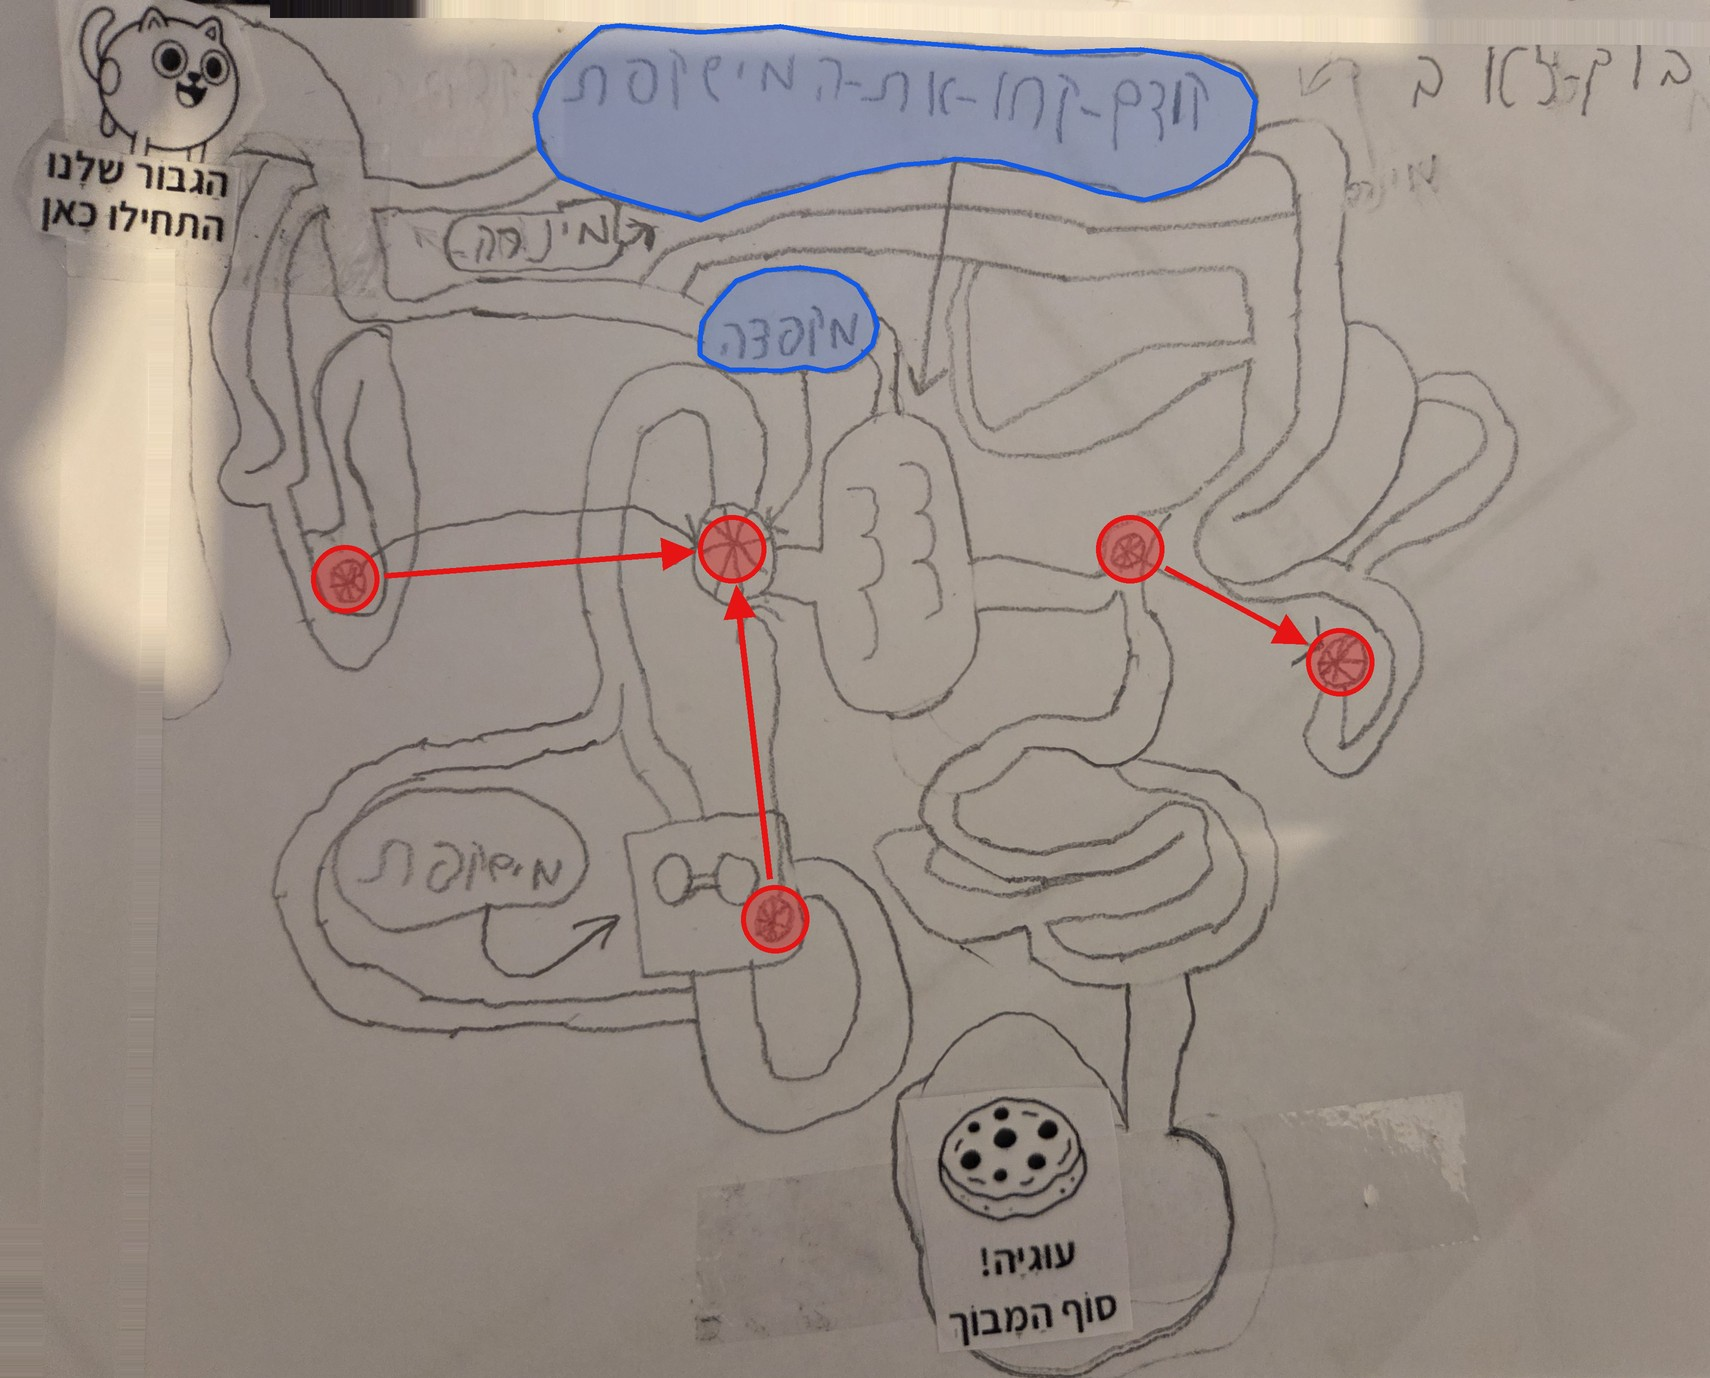
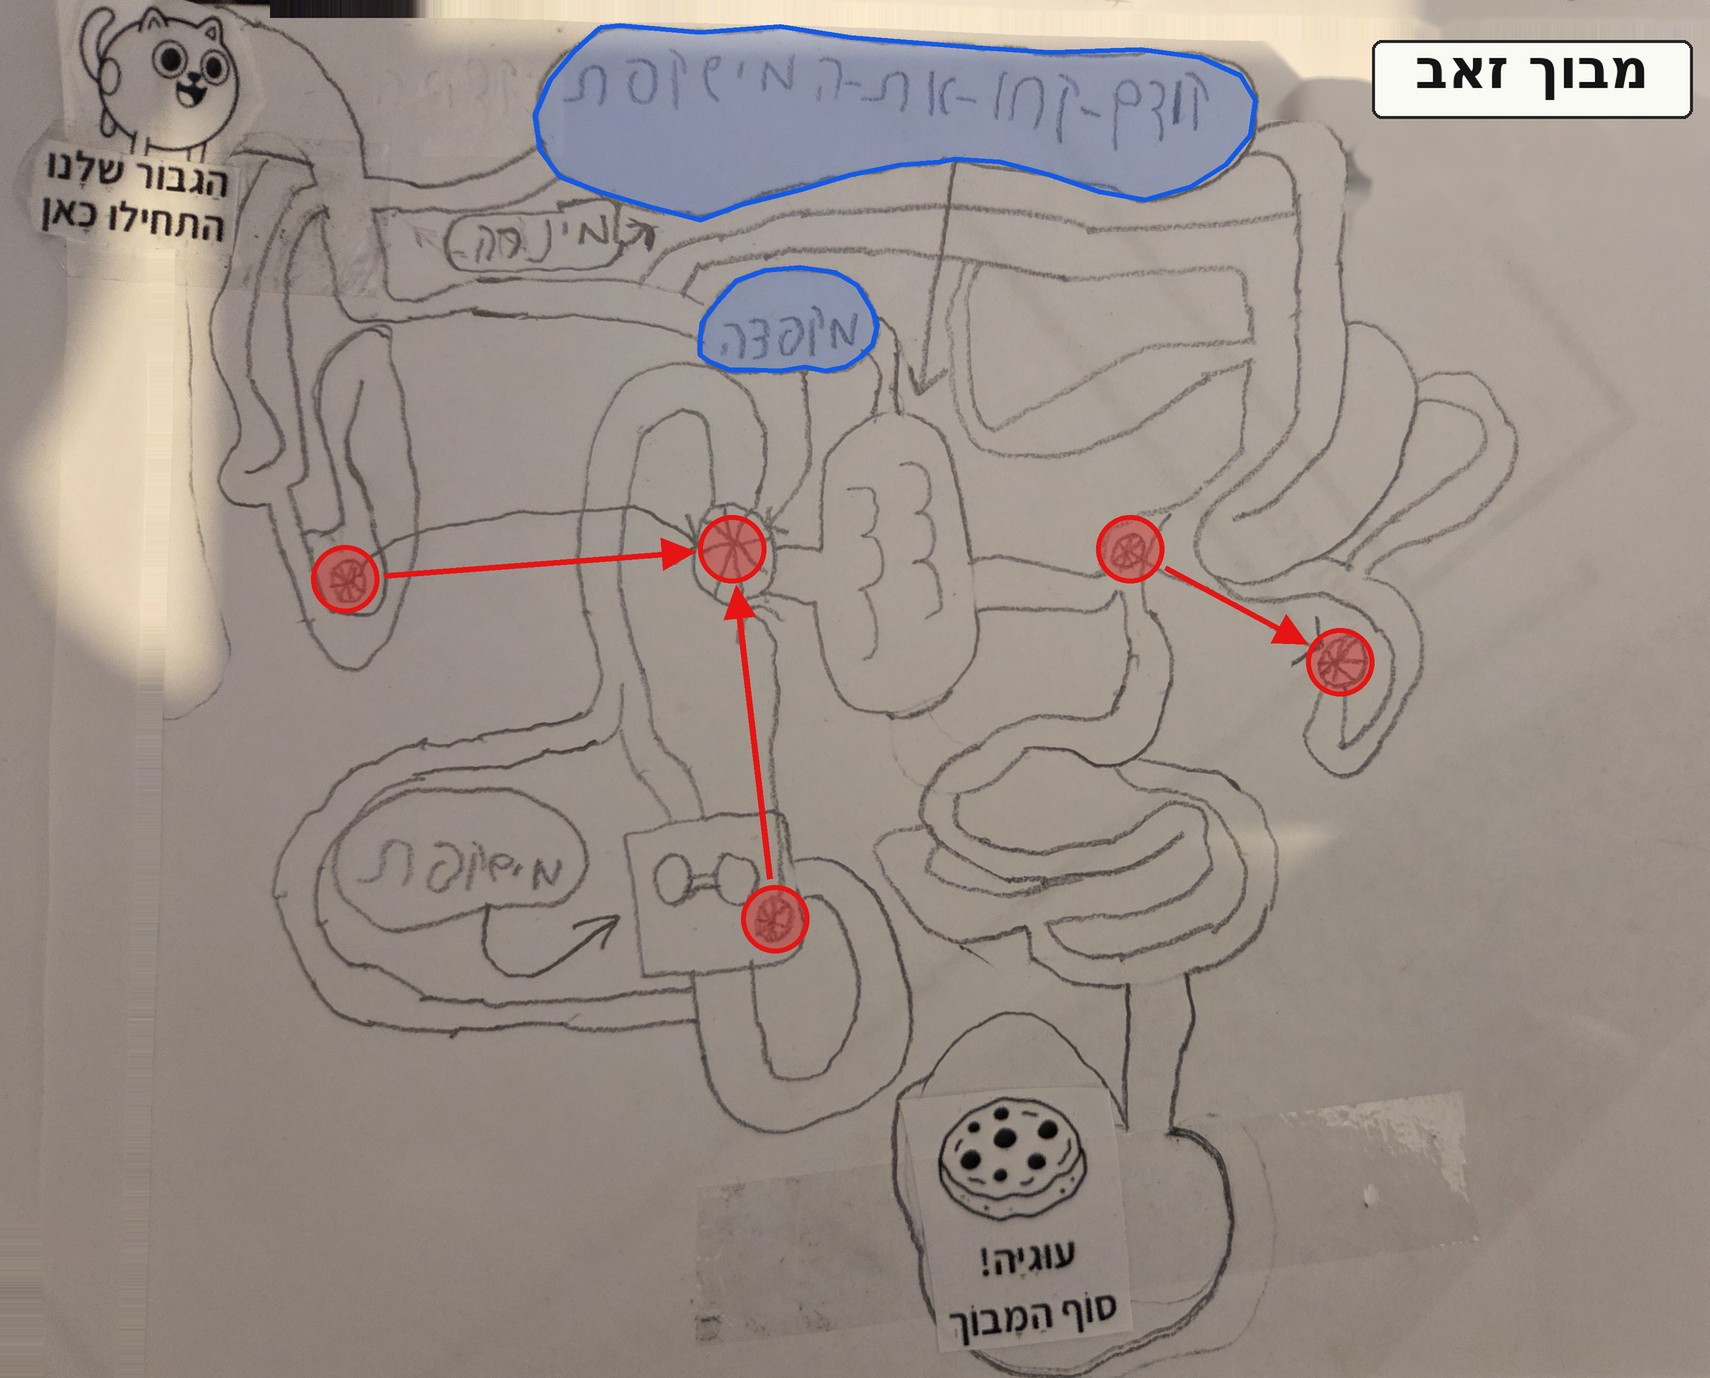
Underground tunnels, wall fixes/bridges, B1 bottom closed, title text box

Changed region(s): [[0.7439, 0.0312, 0.9918, 0.0936], [0.7749, 0.1248, 0.8058, 0.156]]

diff --git a/index.html b/index.html
@@ -1,4 +1,4 @@
 <!doctype html><meta charset="utf-8"><meta name="viewport" content="width=device-width,initial-scale=1">
 <title>Maze</title><body style="margin:0;background:#222;color:#eee;font-family:sans-serif">
-<p style="padding:8px"><a style="color:#8cf" href="maze.jpg">annotations</a> · <a style="color:#8cf" href="maze_walls.jpg">corridor walls (blue) + openings (green)</a> · <a style="color:#8cf" href="annotations.json">annotations.json</a></p>
+<p style="padding:8px"><a style="color:#8cf" href="maze.jpg">annotations</a> · <a style="color:#8cf" href="maze_walls.jpg">corridor walls (blue), room entrances (green), underground tunnels (dotted orange)</a> · <a style="color:#8cf" href="annotations.json">annotations.json</a></p>
 <img src="maze_walls.jpg" style="max-width:100%;display:block;margin:auto">

diff --git a/tools/walls/final.py b/tools/walls/final.py
@@ -1,0 +1,53 @@
+import json, cv2, numpy as np, math
+from PIL import Image, ImageDraw, ImageFont
+A=json.load(open('annotations.json'))
+W=json.load(open('walls_raw.json')); O=json.load(open('openings.json')); P=json.load(open('patches.json'))
+# ---- clean image with title fixed
+im=cv2.imread('maze_clean.jpg'); H,Wd=im.shape[:2]
+g=cv2.cvtColor(im,cv2.COLOR_BGR2GRAY).astype(np.float32)
+bg=cv2.GaussianBlur(cv2.dilate(g,np.ones((15,15))),(0,0),25); d=1-g/bg
+reg=np.zeros((H,Wd),np.uint8); reg[15:116,1262:]=1; reg[116:245,1352:]=1
+mask=((d>0.03)&(reg>0)).astype(np.uint8)*255
+mask=cv2.dilate(mask,np.ones((9,9),np.uint8))
+# keep the A tunnel outline / corridor walls untouched
+mask[:, :1262]=0
+im=cv2.inpaint(im,mask,6,cv2.INPAINT_TELEA)
+title={"text":"מבוך זאב","box":[1372,40,1692,118]}
+x0,y0,x1,y1=title['box']
+pil=Image.fromarray(cv2.cvtColor(im,cv2.COLOR_BGR2RGB)); dr=ImageDraw.Draw(pil)
+dr.rounded_rectangle((x0,y0,x1,y1),radius=10,fill=(250,250,245),outline=(40,40,40),width=3)
+f=ImageFont.truetype('/usr/share/fonts/truetype/dejavu/DejaVuSans-Bold.ttf',54)
+txt=title['text']
+tb=dr.textbbox((0,0),txt,font=f,direction='rtl')
+dr.text(((x0+x1)/2-(tb[2]+tb[0])/2,(y0+y1)/2-(tb[3]+tb[1])/2),txt,font=f,fill=(20,20,20),direction='rtl')
+im=cv2.cvtColor(np.array(pil),cv2.COLOR_RGB2BGR)
+cv2.imwrite('maze_clean_t.jpg',im,[cv2.IMWRITE_JPEG_QUALITY,90])
+# ---- structured annotations
+A['title']=title
+ug={ "U-A":{"under":"A","ends":["A-left-1","A-right"],"polygon":[[540,145],[700,148],[900,152],[1100,142],[1255,129],[1247,153],[1100,170],[900,172],[700,172],[557,176]]},
+     "U-B1":{"under":"B1","ends":["B1-left","B1-right"],"polygon":[[699,338],[790,333],[876,319],[864,353],[790,358],[706,364]]},
+     "U-BOX":{"under":"BOX","ends":["BOX-top","BOX-bottom"],"polygon":[[670,822],[702,817],[751,966],[691,974]]}}
+A['underground_tunnels']=[{"id":k,"border":"dotted","placeholder_path":True,**v} for k,v in ug.items()]
+ends={e for v in ug.values() for e in v['ends']}
+A['openings']=[{"id":o['id'],"structure":o['structure'],"kind":"underground_tunnel_end" if o['id'] in ends else "room_entrance","outline_removed":o['cut']} for o in O]
+A['walls']=W
+A['notes']={"walls":"thin centre-lines of the pencil corridor borders (open polylines [[x,y],...]), auto-traced ~2px tolerance; small gaps patched by hand",
+ "underground_tunnels":"polygon path under the room is a straight placeholder between the two tunnel ends, not drawn by the child",
+ "coords":"all pixels of maze.jpg / maze_clean.jpg (1710x1378)"}
+json.dump(A,open('annotations.json','w'),ensure_ascii=False,separators=(',',':'))
+# ---- overlay render
+S=2; big=cv2.resize(im,None,fx=S,fy=S,interpolation=cv2.INTER_CUBIC); big=(big*0.8+255*0.2).astype(np.uint8)
+Pn=lambda l:(np.array(l)*S).astype(np.int32)
+for l in W: cv2.polylines(big,[Pn(l)],False,(190,60,0),2,cv2.LINE_AA)
+def dotted(poly,col,step=14,r=3):
+    pts=poly+[poly[0]]
+    for a,b in zip(pts,pts[1:]):
+        a=np.array(a,float)*S;b=np.array(b,float)*S;L=np.linalg.norm(b-a)
+        for t in np.arange(0,L,step): c=a+(b-a)*t/L; cv2.circle(big,(int(c[0]),int(c[1])),r,col,-1,cv2.LINE_AA)
+for v in ug.values(): dotted(v['polygon'],(0,140,255))
+for o in O:
+    kind='t' if o['id'] in ends else 'r'
+    cv2.polylines(big,[Pn(o['cut'])],False,(120,120,120) if kind=='t' else (0,170,0),5 if kind=='t' else 4,cv2.LINE_AA)
+for t in A['trampolines']: cv2.circle(big,tuple((np.array(t['center'])*S).tolist()),t['radius']*S,(0,0,230),5,cv2.LINE_AA)
+big=cv2.resize(big,(2000,int(big.shape[0]*2000/big.shape[1])),interpolation=cv2.INTER_AREA)
+cv2.imwrite('maze_walls_s.jpg',big,[cv2.IMWRITE_JPEG_QUALITY,88])

diff --git a/tools/walls/walls.py b/tools/walls/walls.py
@@ -17,7 +17,7 @@ def poly_inset(pts,inset):
     t=np.zeros((H,W),np.uint8); cv2.fillPoly(t,[np.array(pts,np.int32)],1)
     t=cv2.erode(t,np.ones((2*inset+1,2*inset+1),np.uint8)); return t
 rect(0,0,205,1378); rect(0,0,430,22)            # stickers/left
-rect(1345,0,1710,310)                            # handwriting top right
+rect(1300,0,1710,148); rect(1352,148,1710,310)                            # handwriting top right
 rect(900,1095,1140,1345)                         # cookie sticker
 rect(1245,1090,1480,1230)                        # tape right
 rect(695,1180,895,1340)                          # tape left
@@ -57,6 +57,12 @@ for o in openings:
     p=shorten(o['cut'],5)
     cv2.polylines(er,[np.round(np.array(p)).astype(np.int32)],False,1,7)
 sk[er>0]=0
+dele=np.zeros((H,W),np.uint8)
+for (cx,cy,rx,ry) in json.load(open('deletions.json')):
+    cv2.ellipse(dele,(cx,cy),(rx,ry),0,0,360,1,-1)
+sk[dele>0]=0
+for seg in json.load(open('patches.json')):
+    cv2.polylines(sk,[np.array(seg,np.int32)],False,1,1)
 for o in openings:
     for seg in o.get('add',[]):
         cv2.polylines(sk,[np.array(seg,np.int32)],False,1,1)
